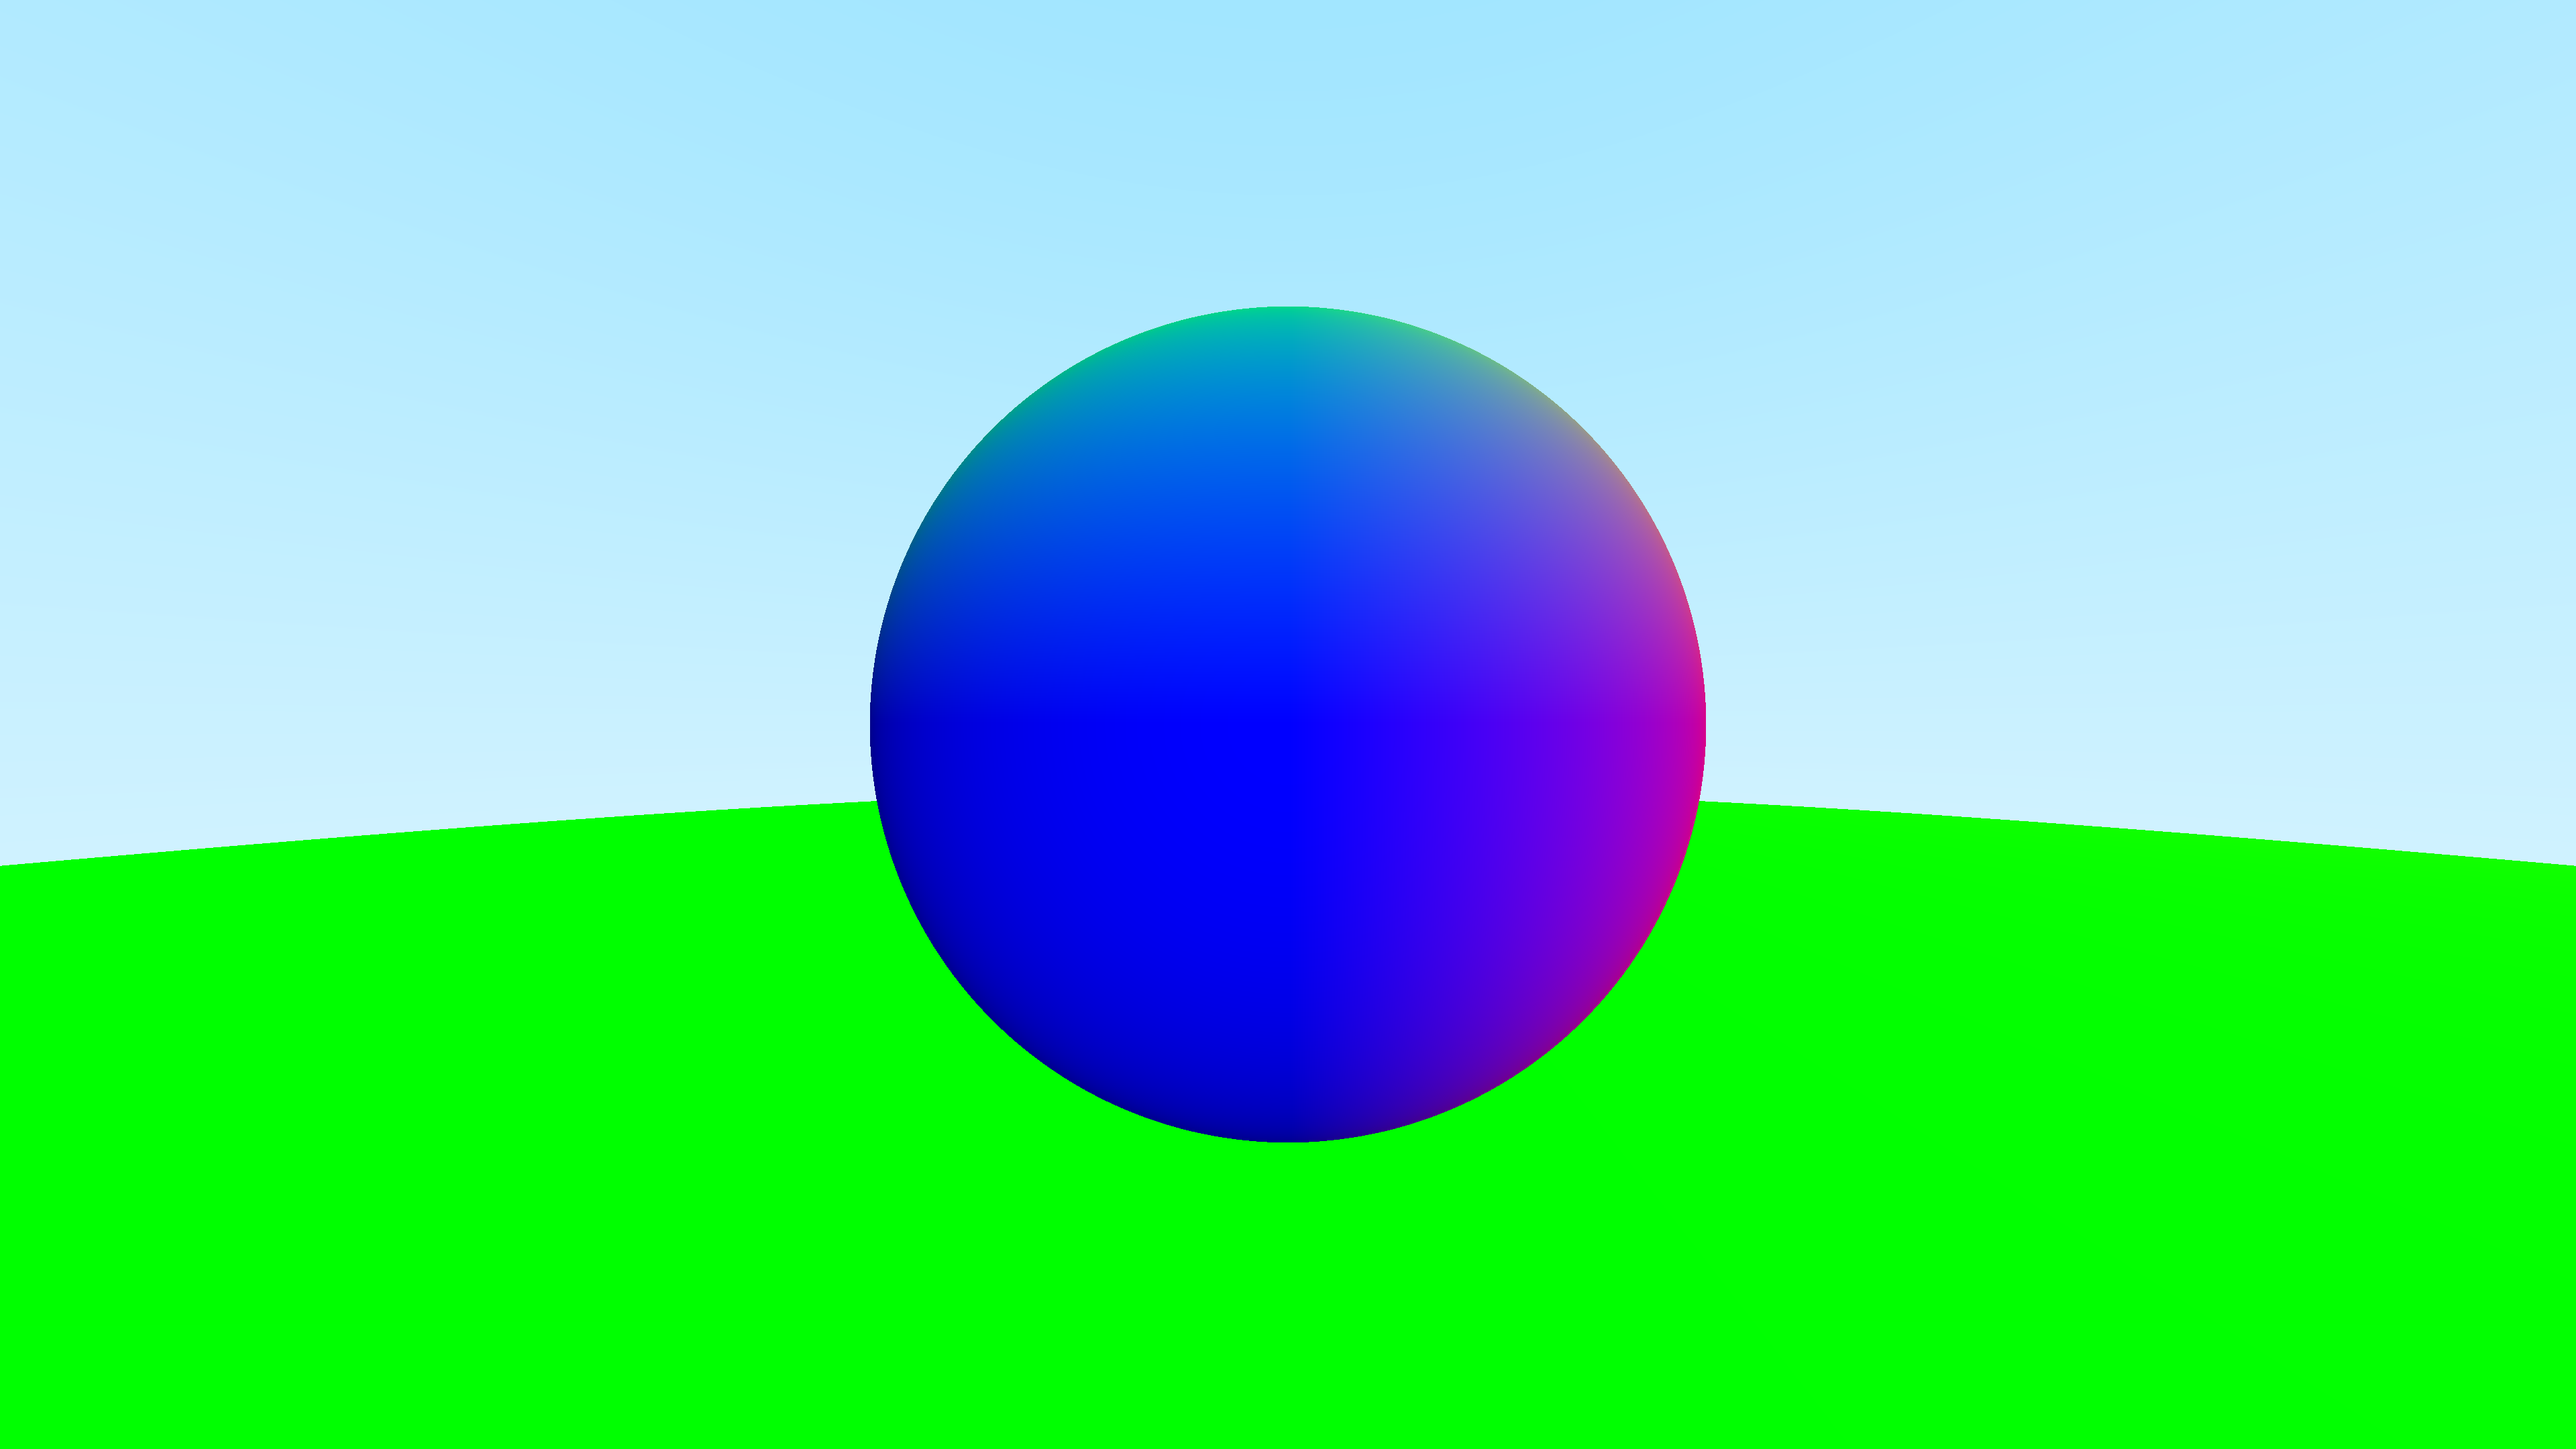
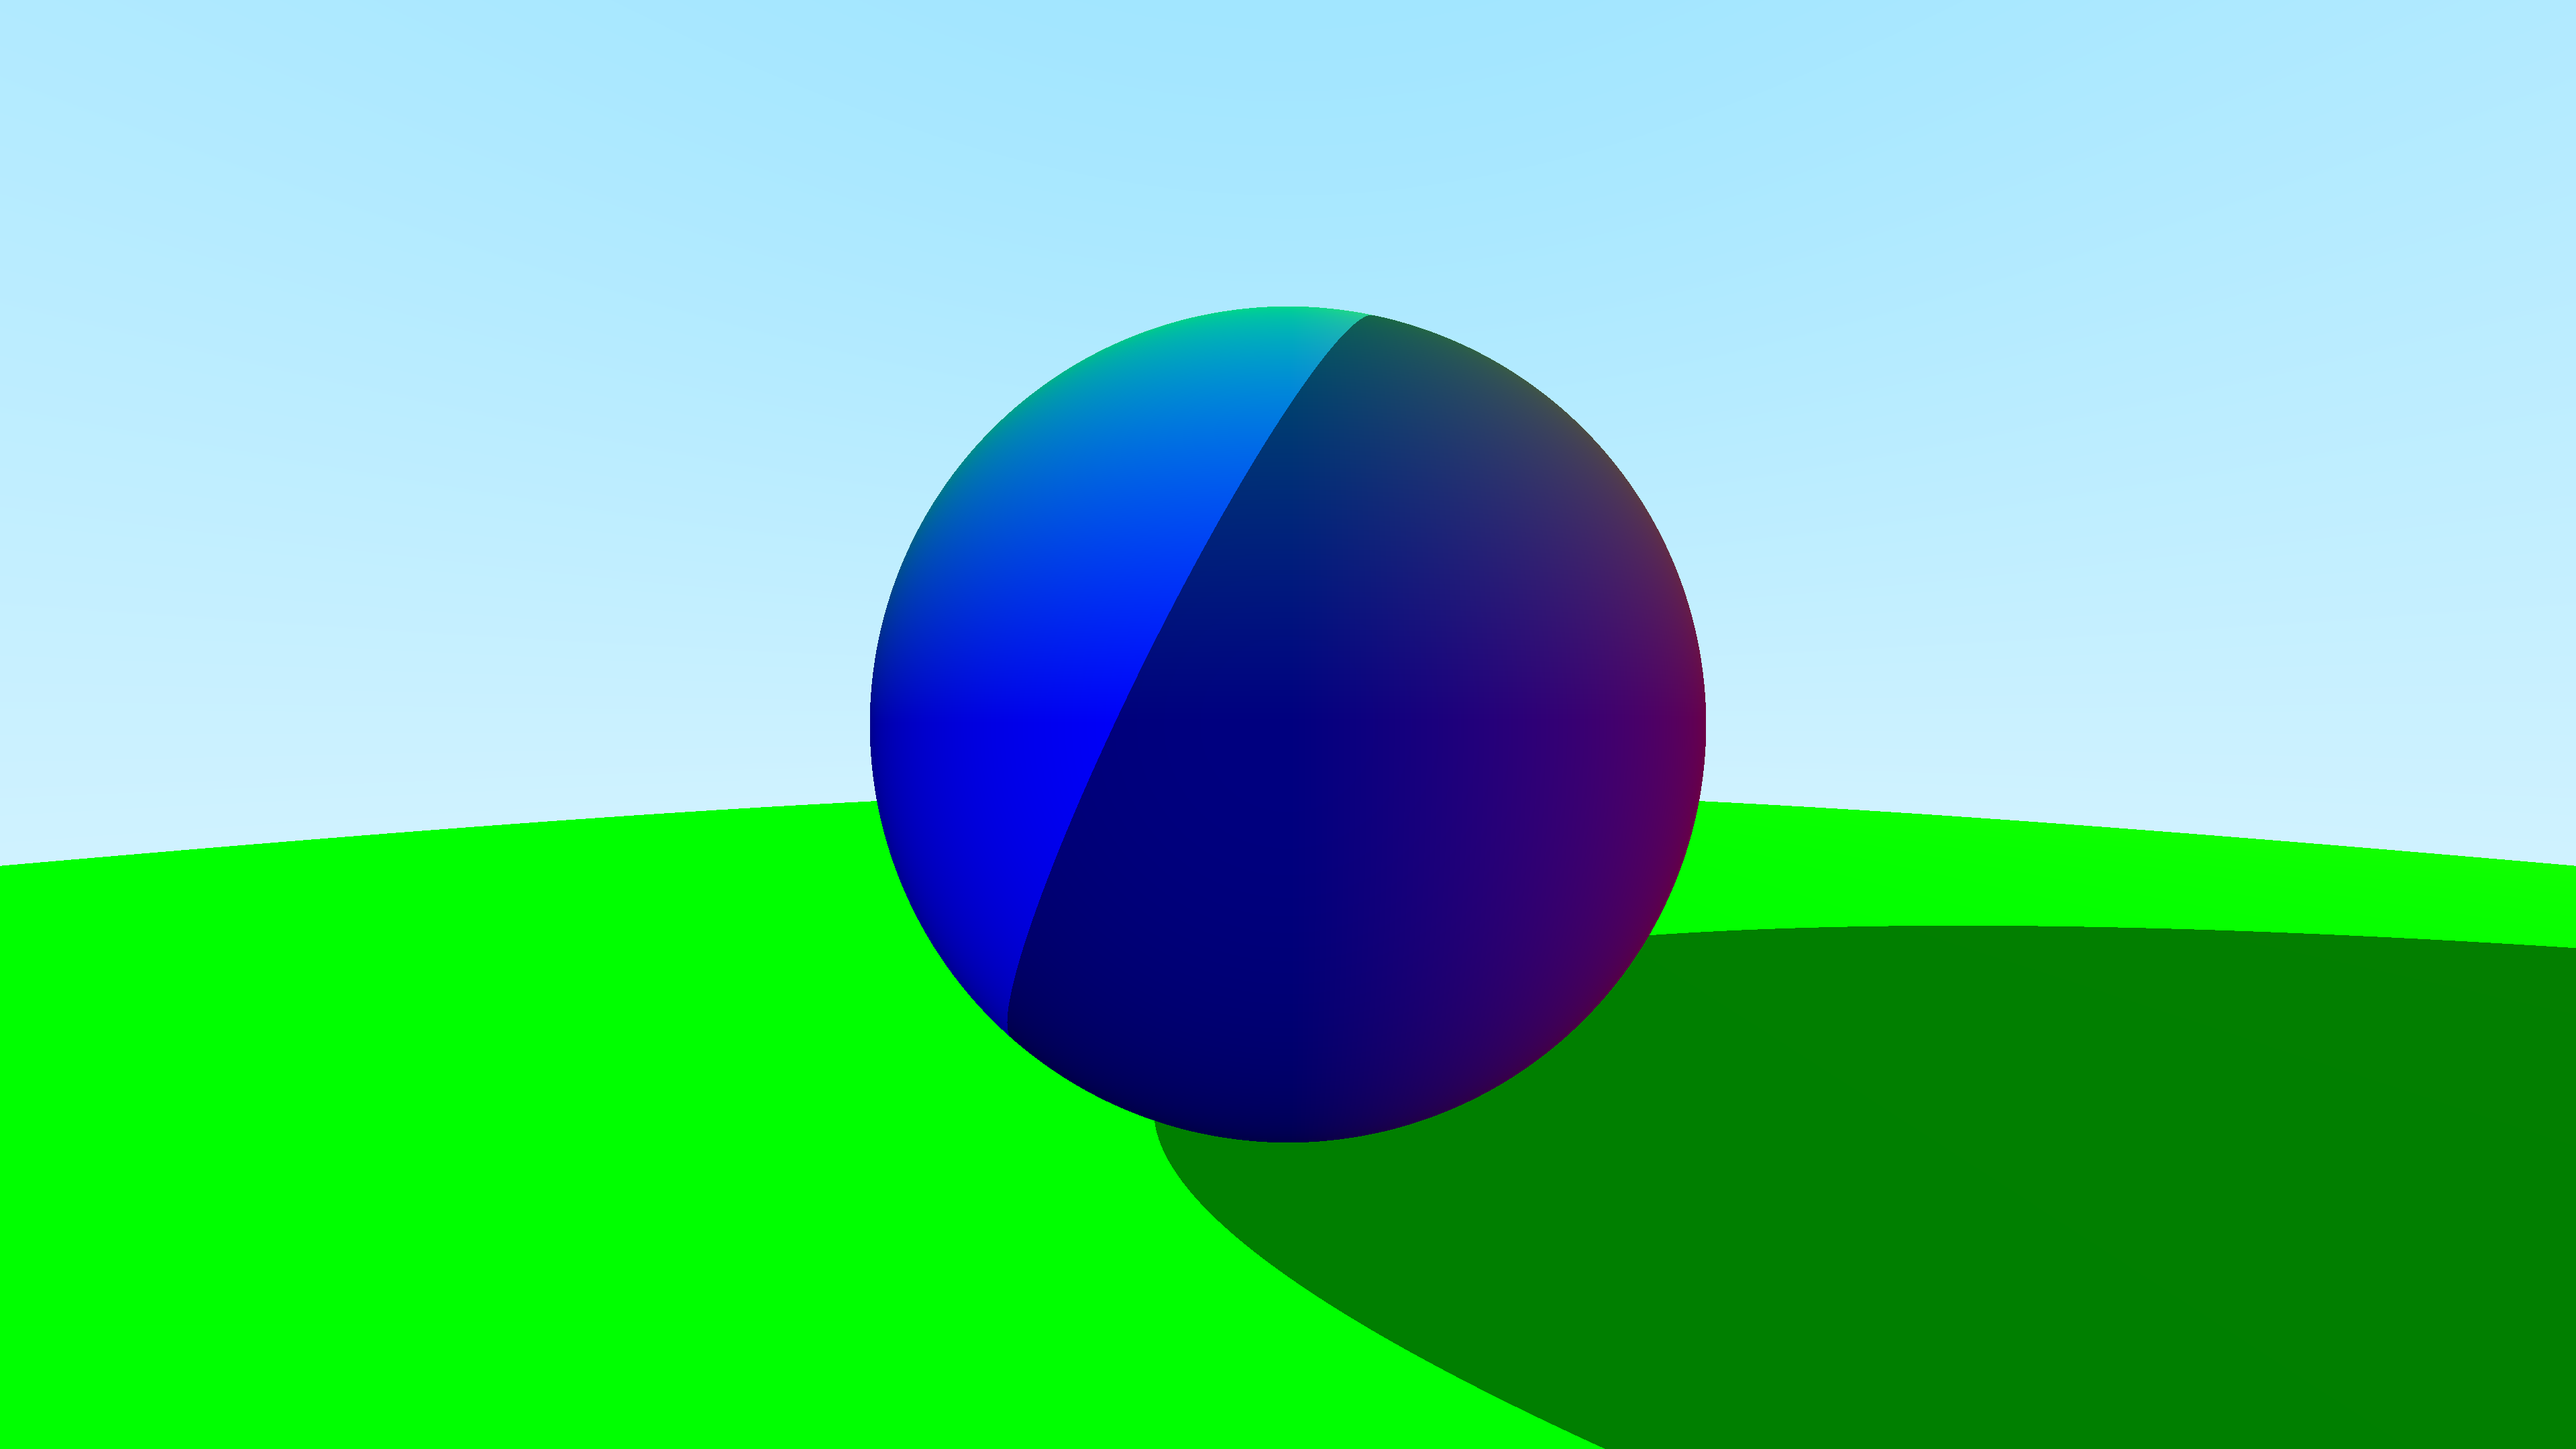
add scene struct. add shadows

Changed region(s): [[0.375, 0.2171, 1.0, 1.0]]

diff --git a/src/tracer/ray.rs b/src/tracer/ray.rs
@@ -1,6 +1,5 @@
 use glam::f32::Vec3;
-use crate::tracer::sphere::Sphere;
-use crate::tracer::hit::Hit;
+use crate::tracer::scene::Scene;
 
 pub struct Ray {
     pub origin: Vec3,
@@ -12,20 +11,23 @@ impl Ray {
         self.origin + t*self.dir
     }
 
-    pub fn color(&self, scene: &Vec<Sphere>) -> Vec3 {
-        let mut closest_hit: Option<Hit> = None;
-        for sphere in scene {
-            let h = sphere.hit(self);
-            if closest_hit.is_none() {
-                closest_hit = h;
-            }
-            else if h.is_some() && h < closest_hit {
-                closest_hit = h;
-            }
-        }
+    pub fn color(&self, scene: &Scene) -> Vec3 {
+        match scene.hit(self) {
+            Some(h) => {
+                let p = self.at(h.t);
+                let mut norm = (p - h.sphere.origin).normalize();
 
-        match closest_hit {
-            Some(h) => h.normal,
+                let ray_to_light = Ray {
+                    origin: p,
+                    dir: scene.light - p
+                };
+
+                if scene.hit_shadow(&ray_to_light) {
+                    norm *= 0.5;
+                }
+
+                norm
+            }
             None => {
                 let u = self.dir.normalize();
                 let t: f32 = 0.5*(u.y + 1.0);

diff --git a/src/tracer/scene.rs b/src/tracer/scene.rs
@@ -1,0 +1,51 @@
+use glam::f32::Vec3;
+use crate::tracer::sphere::Sphere;
+use crate::tracer::hit::Hit;
+use crate::tracer::ray::Ray;
+
+pub struct Scene {
+    pub light: Vec3,
+    objects: Vec<Sphere>
+}
+
+impl Scene {
+    pub fn hit(&self, r: &Ray) -> Option<Hit> {
+        let mut closest_hit: Option<Hit> = None;
+        for sphere in &self.objects {
+            let h = sphere.hit(r);
+            if closest_hit.is_none() {
+                closest_hit = h;
+            }
+            else if h.is_some() && h < closest_hit {
+                closest_hit = h;
+            }
+        }
+        closest_hit
+    }
+
+    pub fn hit_shadow(&self, r: &Ray) -> bool {
+        for sphere in &self.objects {
+            let h = sphere.hit(r);
+            if h.is_some() {
+                return true;
+            }
+        }
+        false
+    }
+}
+
+pub fn def() -> Scene {
+    Scene {
+        light: Vec3::new(-2.0, 1.0, -1.0),
+        objects: vec![
+            Sphere{
+                origin: Vec3::new(0.0, -100.5, -1.0),
+                radius: 100.0
+            },
+            Sphere{
+                origin: Vec3::new(0.0, 0.0, -1.0),
+                radius: 0.5
+            }
+        ]
+    }
+}

diff --git a/src/tracer/hit.rs b/src/tracer/hit.rs
@@ -1,17 +1,17 @@
-use glam::f32::Vec3;
+use crate::tracer::sphere::Sphere;
 
-pub struct Hit {
+pub struct Hit<'a> {
     pub t: f32,
-    pub normal: Vec3
+    pub sphere: &'a Sphere
 }
 
-impl PartialEq for Hit {
+impl PartialEq for Hit<'_> {
     fn eq(&self, other: &Hit) -> bool {
         self.t == other.t
     }
 }
 
-impl PartialOrd for Hit {
+impl PartialOrd for Hit<'_> {
     fn partial_cmp(&self, other: &Hit) -> Option<std::cmp::Ordering> {
         self.t.partial_cmp(&other.t)
     }

diff --git a/src/tracer/sphere.rs b/src/tracer/sphere.rs
@@ -21,15 +21,16 @@ impl Sphere {
         }
         let disc_root = disc.sqrt();
         let mut t = (-b - disc_root) / (2.0*a);
-        if t < 0.0 {
+        let eps = 0.001;
+        if t < eps {
             t = (-b + disc_root) / (2.0*a);
-            if t < 0.0 {
+            if t < eps {
                 return None;
             }
         }
         Some(Hit{
             t: t,
-            normal: (r.at(t) - self.origin).normalize()
+            sphere: self
         })
     }
 }

diff --git a/src/main.rs b/src/main.rs
@@ -14,16 +14,7 @@ fn main() {
     };
 
     let cam = tracer::camera::def();
-    let scene = vec![
-        tracer::sphere::Sphere{
-            origin: glam::f32::Vec3::new(0.0, -100.5, -1.0),
-            radius: 100.0
-        },
-        tracer::sphere::Sphere{
-            origin: glam::f32::Vec3::new(0.0, 0.0, -1.0),
-            radius: 0.5
-        }
-    ];
+    let scene = tracer::scene::def();
     for y in (0..HEIGHT).rev()
     {
         for x in 0..WIDTH

diff --git a/src/tracer.rs b/src/tracer.rs
@@ -1,4 +1,5 @@
 pub mod ray;
 pub mod hit;
 pub mod camera;
+pub mod scene;
 pub mod sphere;
